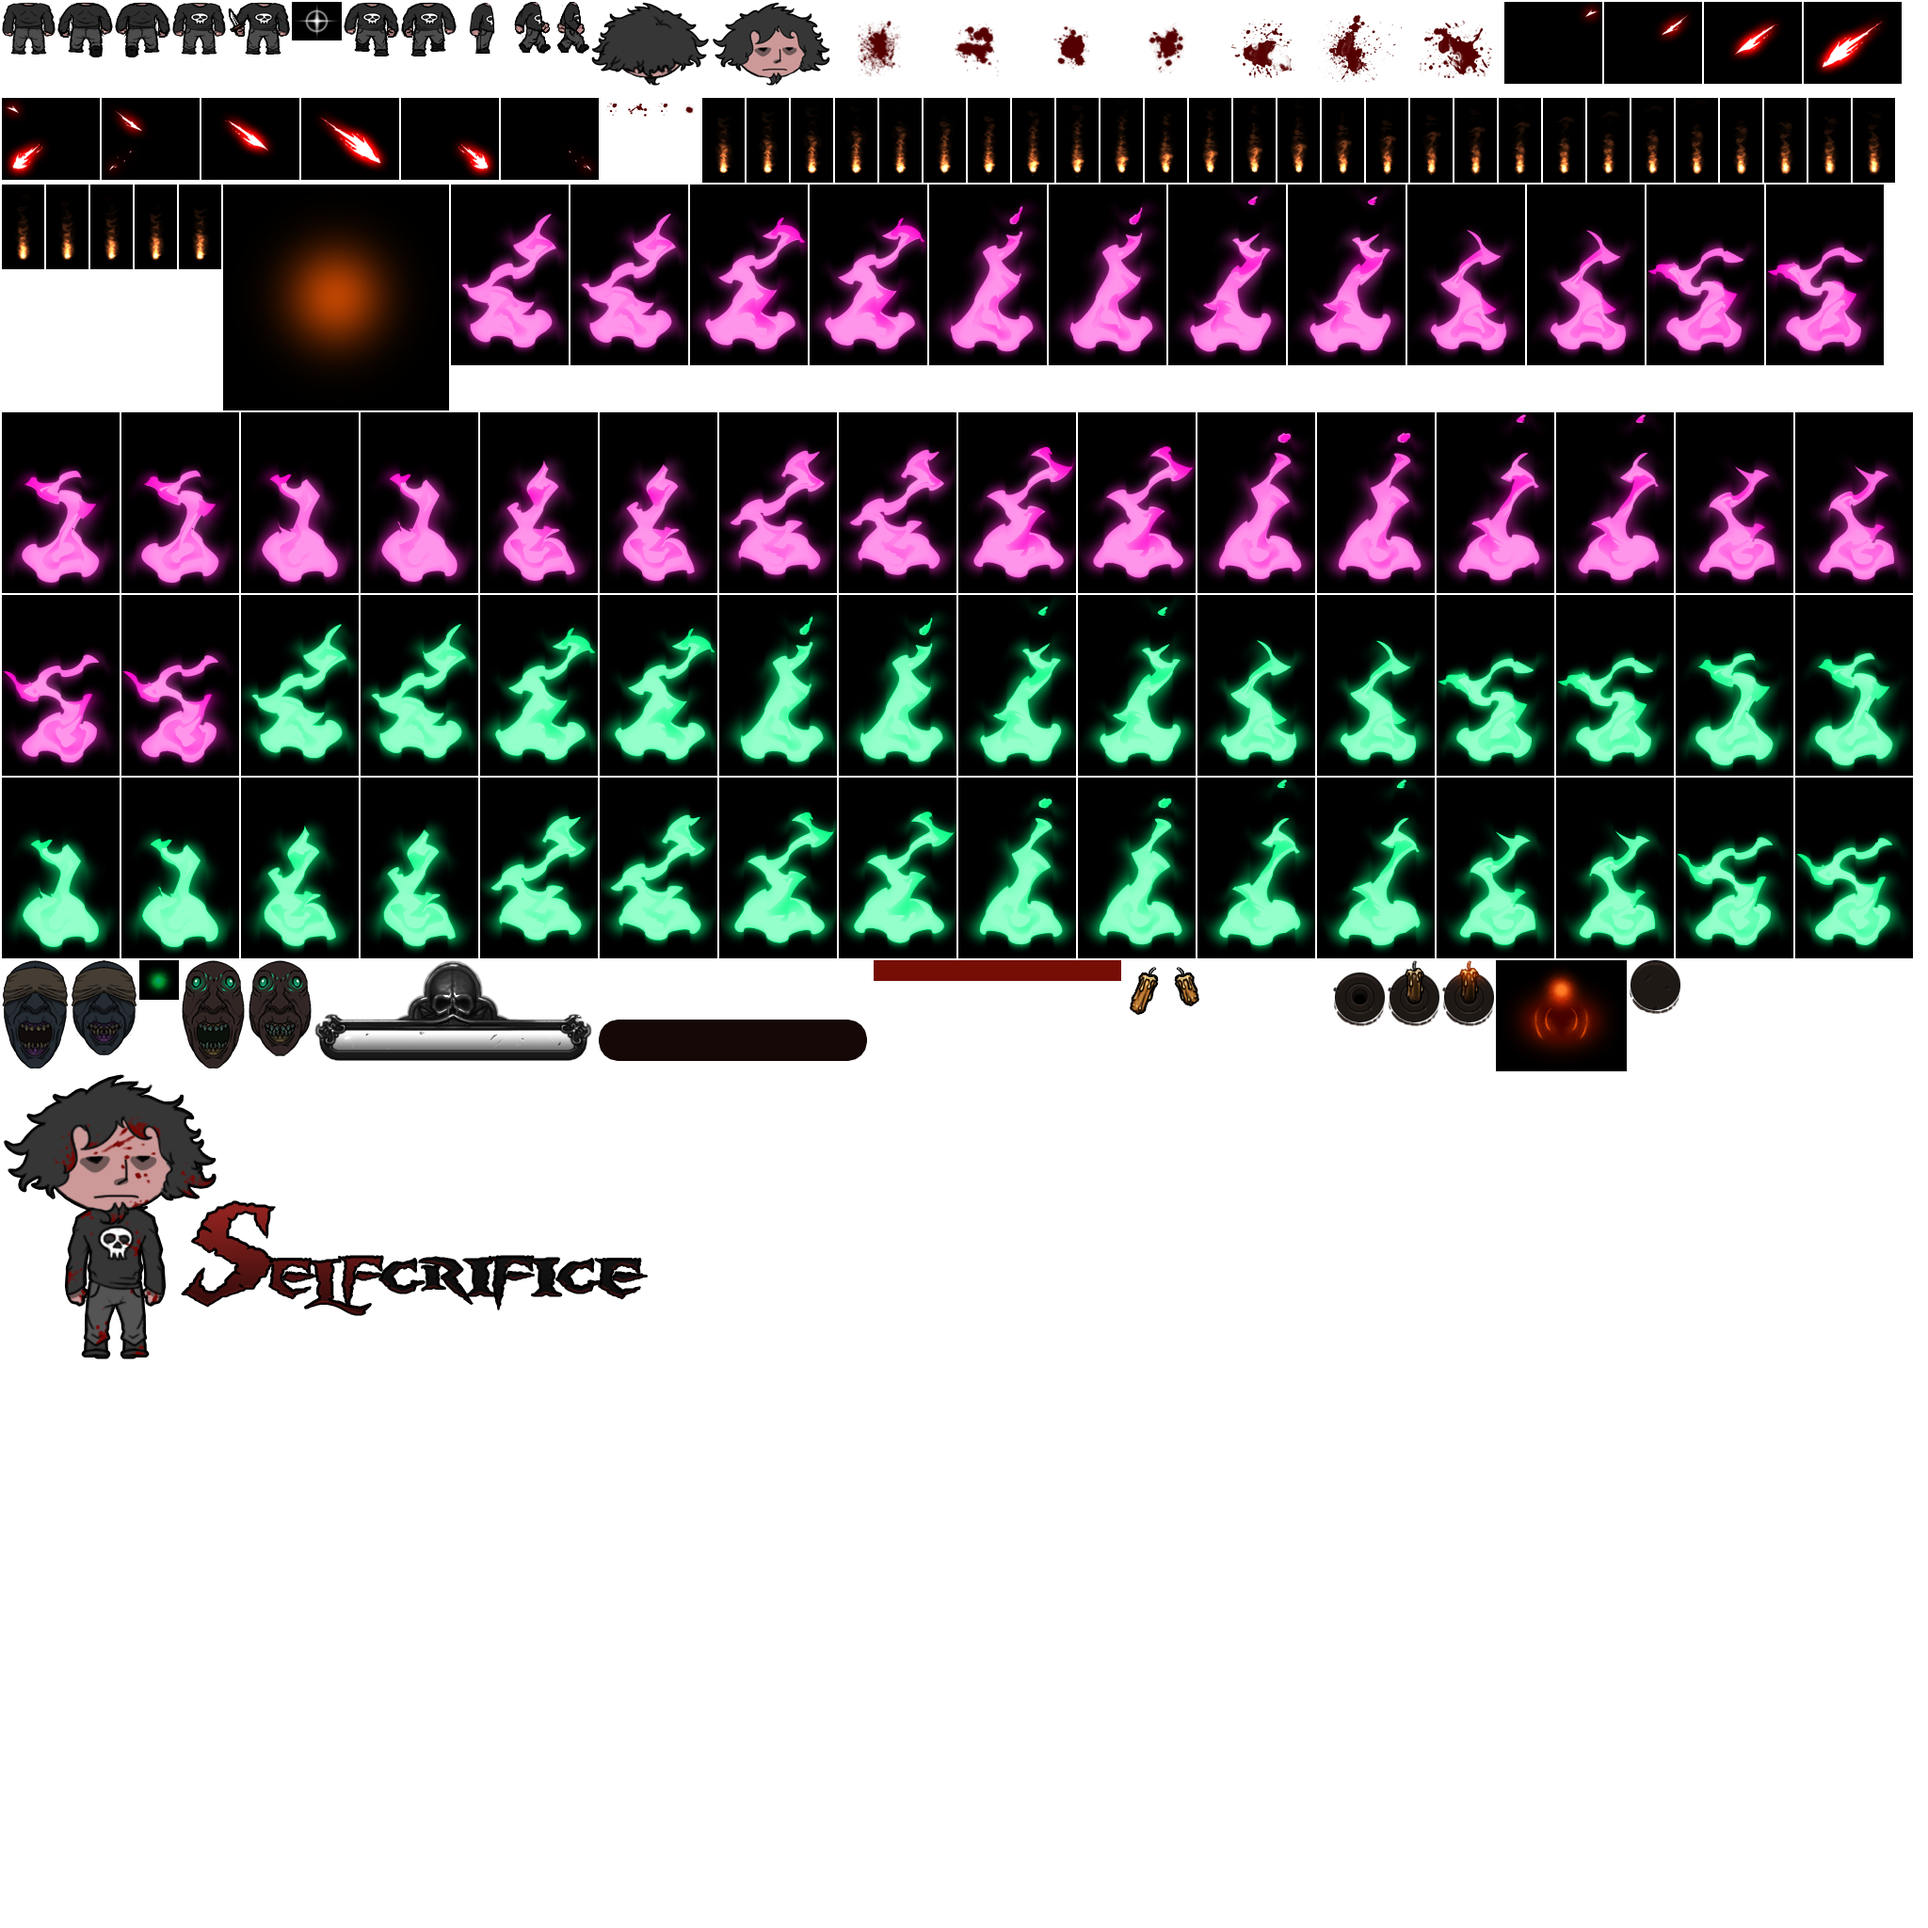
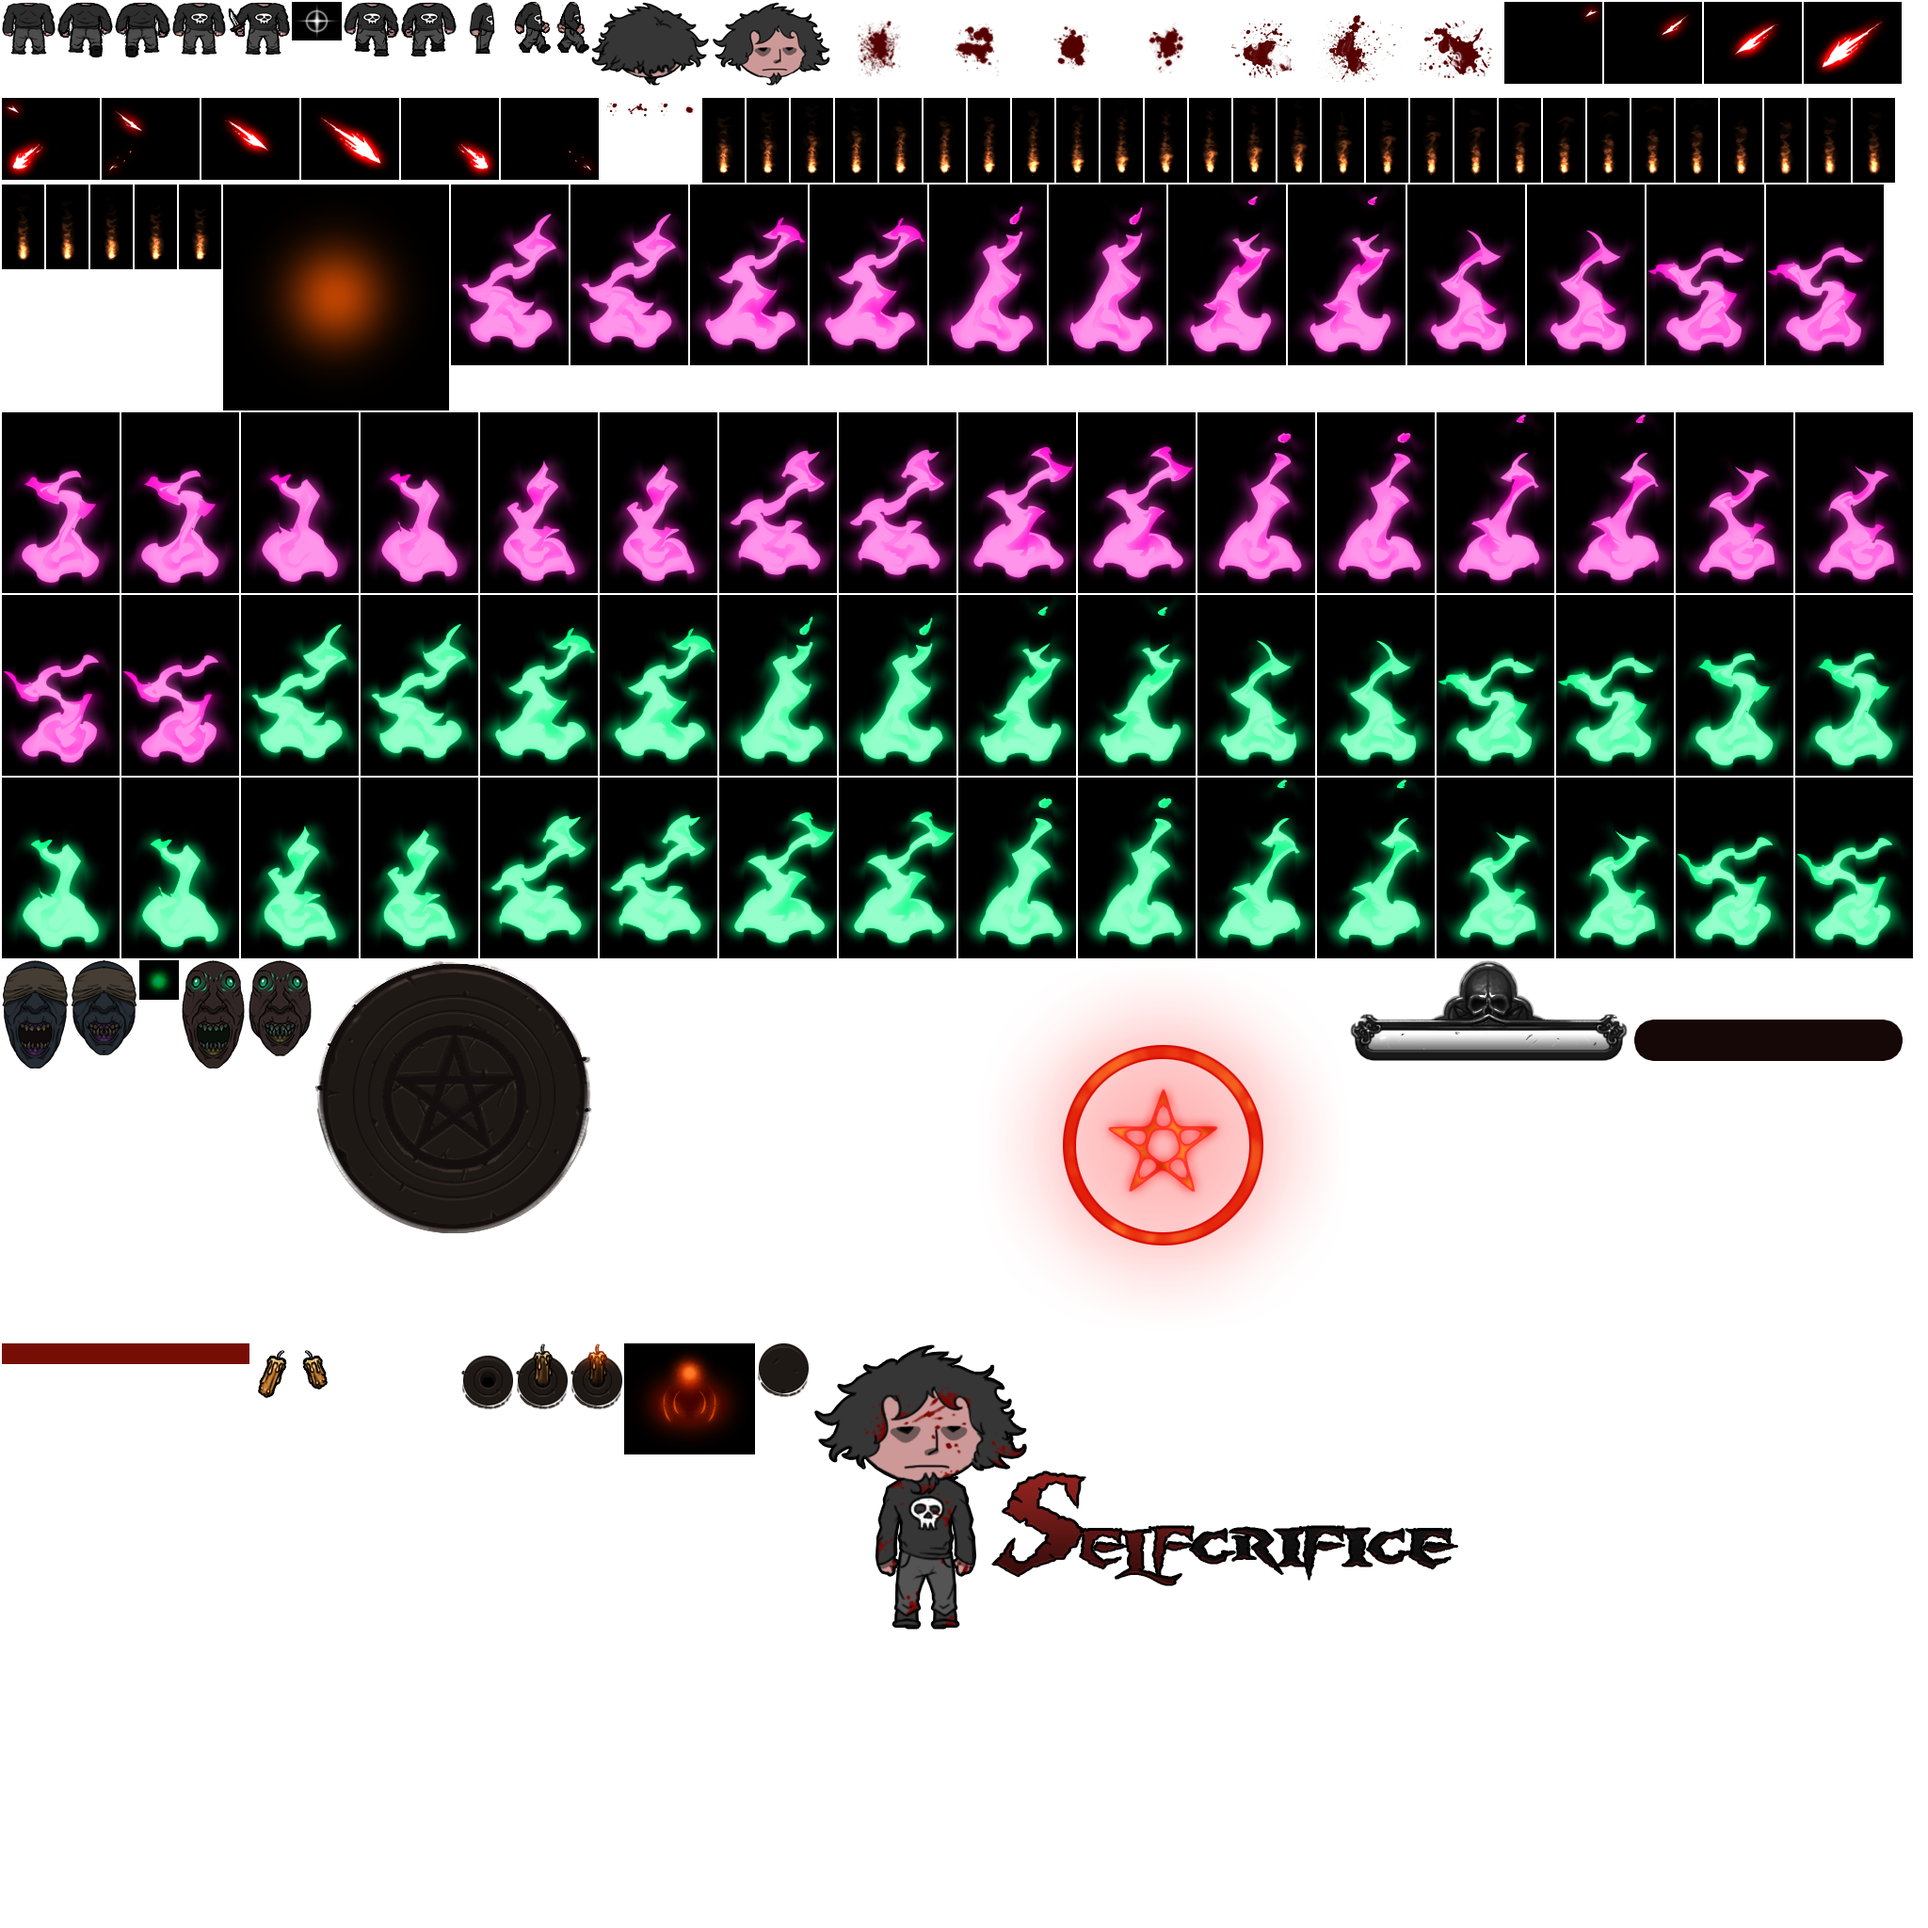
Altar

Changed region(s): [[0.0, 0.5, 0.75, 0.8438], [0.6875, 0.5, 1.0, 0.5625]]

diff --git a/core/src/com/retrom/ggj2016/game/World.java b/core/src/com/retrom/ggj2016/game/World.java
@@ -72,8 +72,11 @@ public class World {
 	private float gameTime = 0;
 	private float slashTime = 0;
 
+	private Altar altar;
+
 	private void restartLevel()
 	{
+		altar = new Altar(level);
 		state = GameState.BEFORE_CANDLES;
 		enemies.clear();
 		candles.clear();
@@ -91,6 +94,7 @@ public class World {
 		this.listener_ = listener;
 		this.level = level;
 		lastPosition = player.position.cpy();
+		altar = new Altar(level);
 		buildLevel();
 	}
 
@@ -140,7 +144,6 @@ public class World {
 		for (Vector2 candle : level.candles) {
 			tryAddCandlePoint(candle.x, candle.y);
 		}
-		
 	}
 	
 	private void tryAddCandlePoint(float x, float y) {
@@ -160,6 +163,9 @@ public class World {
 
 	public void update(float deltaTime) {
 		gameTime += deltaTime;
+		
+		altar.update(deltaTime);
+		
 		if (state == GameState.CANDLES_ON) {
 			updateCandlesOn(deltaTime);
 			return;
@@ -313,6 +319,7 @@ public class World {
 		BatchUtils.setBlendFuncNormal(batch);
 		batch.begin();
 		utils.drawCenter(batch, Assets.bg, 0, 0);
+		altar.render(batch);
 		batch.end();
 
 		if (state == GameState.AFTER_CANDLES) {
@@ -354,7 +361,7 @@ public class World {
 		BatchUtils.setBlendFuncAdd(batch);
 		batch.begin();
 		if (painting.isDone()) {
-			utils.drawCenter(batch, Assets.centerGlow, 0, 0);
+			altar.show();
 		}
 		if (GameState.CANDLES_ON == state) {
 			float anim_time = slashTime - 0.5f;

diff --git a/core/src/com/retrom/ggj2016/assets/Assets.java b/core/src/com/retrom/ggj2016/assets/Assets.java
@@ -49,6 +49,10 @@ public class Assets {
 
 	public static Array<Sprite> enemyFollower;
 	public static Array<Sprite> enemyFollowerFire;
+	
+	public static Sprite altar;
+	public static Sprite altar_glow;
+	public static Sprite altar_ux;
 
 	public static void init() {
 		TextureAtlas basicSheet = new TextureAtlas("basic.txt");
@@ -91,6 +95,12 @@ public class Assets {
 		
 		enemyFollower = basicSheet.createSprites("enemies_stalker_frame");
 		enemyFollowerFire = basicSheet.createSprites("enemies_fire_green");
+		
+		altar = basicSheet.createSprite("exitaltar_base");
+		altar_glow = basicSheet.createSprite("exitaltar_base_glow");
+		altar_ux = basicSheet.createSprite("exitaltar_base_UX");
+		
+		
 		
 		TextureAtlas bgSheet = new TextureAtlas("bg.txt");
 		bg = bgSheet.createSprite("bg");
